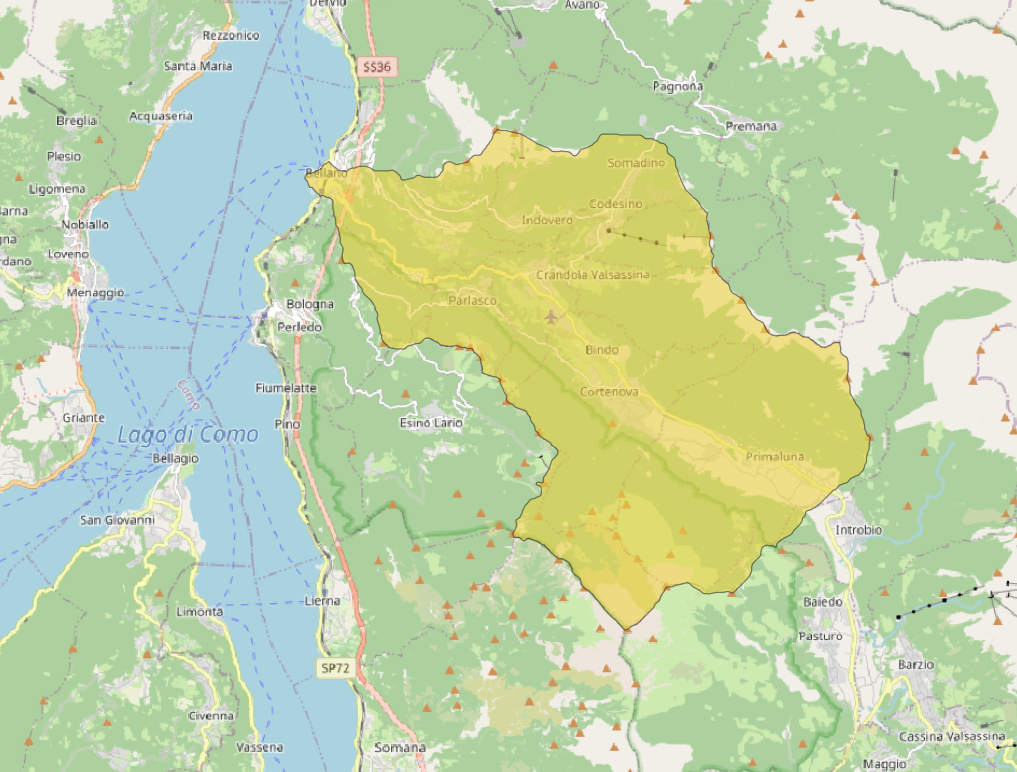
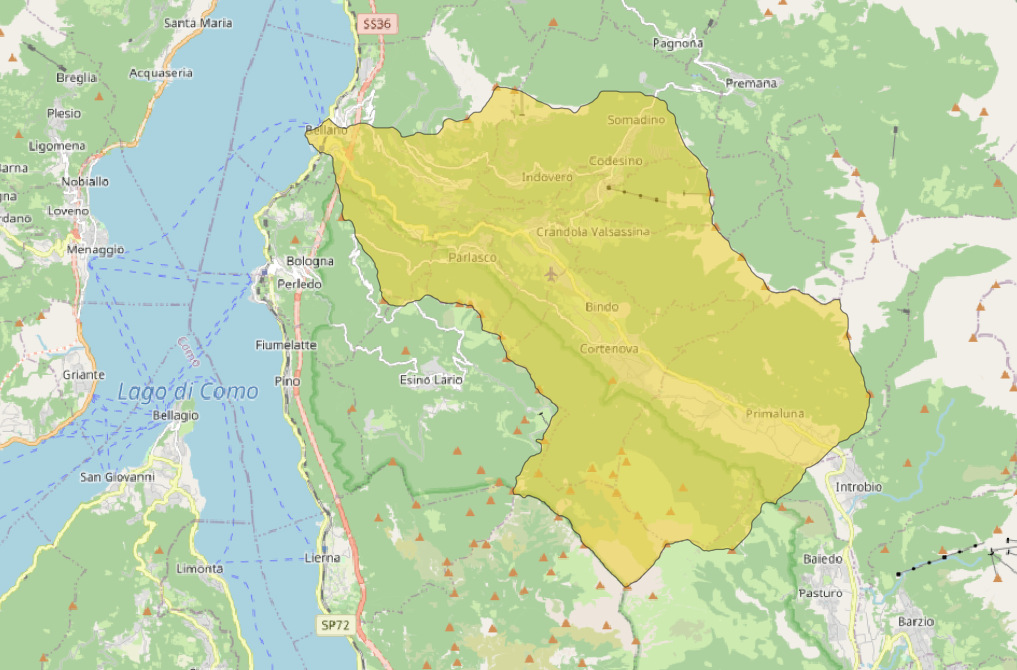
hp and images

diff --git a/weblab/index.html b/weblab/index.html
@@ -76,16 +76,54 @@
 							</header>
 							<p>A Geographic Information System project - A.A. 2022/2023</p>
 							<ul class="actions">
-								<li><a href="#" class="button">Get this party started</a></li>
+								<li><a href="#area" class="button">Let's start!</a></li>
 							</ul>
 						</section>
-
 				</div>
 
-			<!-- Features 1 -->
+				<!-- Main -->
+				<div class="wrapper">
+					<div class="container" id="main">
+
+						<article id="content">
+							<header>
+								<div id= "area" style="text-align: center;">
+									<h2>Group 6: our area of interest</h2>
+  								</div>
+							</header>
+
+								<br>
+
+								<div style="text-align: center;">
+  									<img src="layer-immagini/CaseStudy.png" alt="" />
+  								</div>
+
+  								<br>
+
+  								<p><h3>Landslides analysis with Susceptibility Map</h3></p>
+
+								<p>Landslides are geological phenomena characterized by the movement of a mass of rock, soil, or debris down a slope. Natural factors and human activities like deforenstation, mining, construction can contribute to landslide occurrence. Understanding and assessing landslide hazards is crucial for managing and mitigating the risks they pose to human lives, infrastructure, and the environment. This is where susceptibility maps come into play. Susceptibility maps depict the spatial probability levels for a certain area to be exposure assessment which implies counting (or estimating) of people, property, systems, or other elements present in hazard zones. </p>
+
+						</article>
+					</div>
+				</div>
+
+
+			<!-- Promo -->
+				<div id="promo-wrapper">
+					<section id="promo">
+						<h2>Learn more about how we worked</h2>
+						<a href="our-project.html" class="button">Workflow</a>
+					</section>
+				</div>
+
+
+
+			
+			<!-- Features 1 
 				<div class="wrapper">
 					<div class="container">
-						<div class="row">
+						<div id= "ciao" class="row">
 							<section class="col-6 col-12-narrower feature">
 								<div class="image-wrapper first">
 									<a href="#" class="image featured first"><img src="images/pic01.jpg" alt="" /></a>
@@ -119,16 +157,10 @@
 						</div>
 					</div>
 				</div>
+				-->
 
-			<!-- Promo -->
-				<div id="promo-wrapper">
-					<section id="promo">
-						<h2>Neque semper magna et lorem ipsum adipiscing</h2>
-						<a href="#" class="button">Breach the thresholds</a>
-					</section>
-				</div>
 
-			<!-- Features 2 -->
+			<!-- Features 2 
 				<div class="wrapper">
 					<section class="container">
 						<header class="major">
@@ -163,6 +195,7 @@
 						</ul>
 					</section>
 				</div>
+				-->
 
 			<!-- Footer -->
 				<div id="footer-wrapper">

diff --git a/weblab/our-project.html b/weblab/our-project.html
@@ -40,12 +40,12 @@
 						
 							<article id="content">
 								<header>
-									<h2>The Project: a landslide survey</h2>
+									<h2><b>The Project: a landslide survey</b></h2>
 									<p>Analysis of the eastern region of Lake Como through Landslide Susceptibility Mapping</p>
 								</header>
-								<a href="#" class="image featured"><img src="images/pic06.jpg" alt="" /></a>
+								<a class="image featured"><img src="layer-immagini/dtmcasestudy1.jpg" alt="" /></a>
 
-								<p><h3><b>STEP 0</b></h3></p>
+								<p><h3><b>STEP 0 - Data download</b></h3></p>
 
 								<p>Firstly we have downloaded the required data:</p>
 								<ul>
@@ -135,7 +135,7 @@
 
 								<p>The outputs obtained are the <b>Susceptibility Map</b> and the <b>Error matrix</b>.</p>
 
-								<p><h3><b>STEP3- Data PreProcessing for exposure assessment</b></h3></p>
+								<p><h3><b>STEP3 - Data PreProcessing for exposure assessment</b></h3></p>
 
 								<p>After downloading the population raster dataset from WorldPop, we reprojected this dataset using the same CRS of the group 6 area and of the susceptibility map.
 								Then the reprojected population raster dataset has been clipped using as mask layer the group 6 sub area.</p>

diff --git a/weblab/assets/css/main.css b/weblab/assets/css/main.css
@@ -2111,7 +2111,7 @@ input, select, textarea {
 
 	#promo-wrapper {
 		position: relative;
-		background-image: url("images/overlay.png"), url("../../images/promo.jpg");
+		background-image: url("images/overlay.png"), url("../../images/blurred.jpg");
 		background-size: 192px 192px, cover;
 		background-position: top left, center center;
 		color: #fff;
